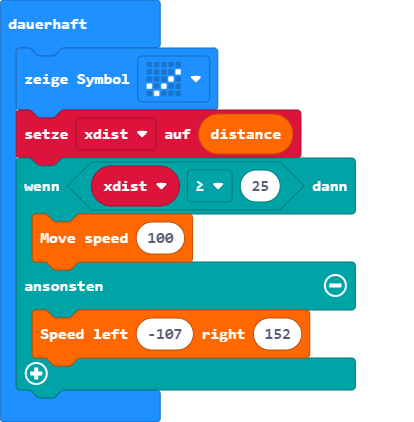
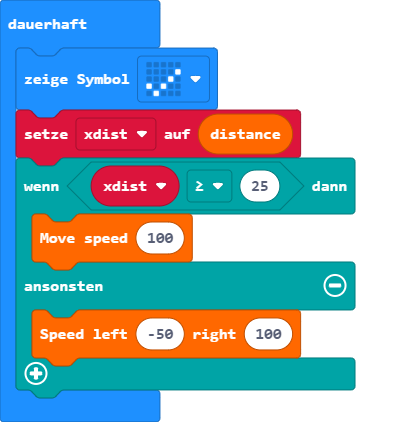
Aktualisiere main.blocks, main.ts

diff --git a/main.ts b/main.ts
@@ -5,6 +5,6 @@ basic.forever(function () {
     if (xdist >= 25) {
         Rover.Move(100)
     } else {
-        Rover.MotorRunDual(-107, 152)
+        Rover.MotorRunDual(-50, 100)
     }
 })
